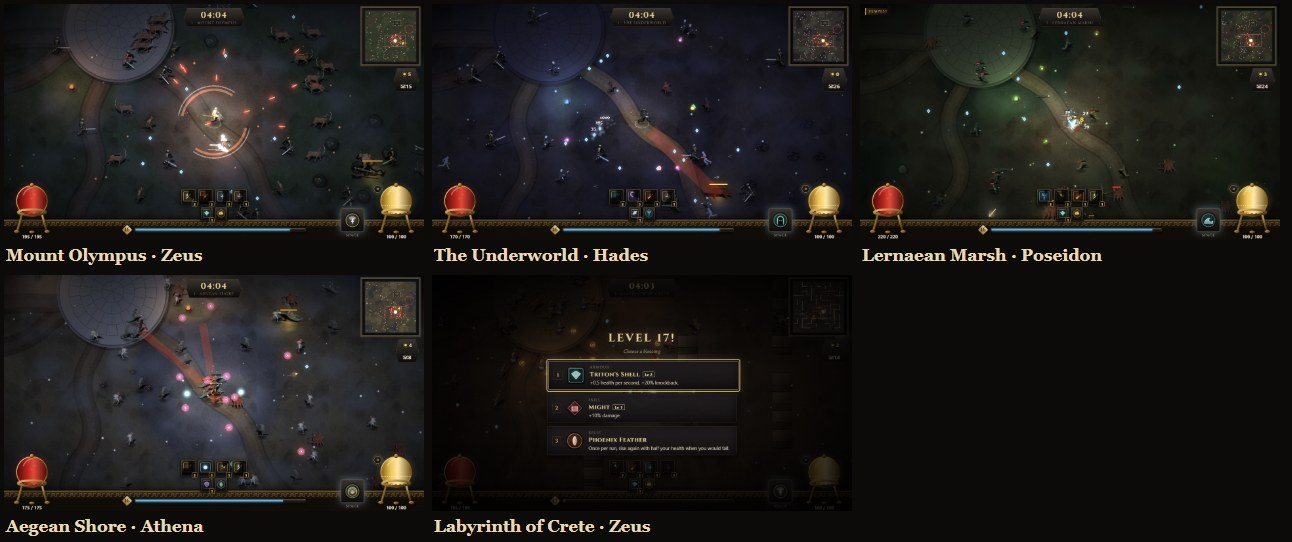
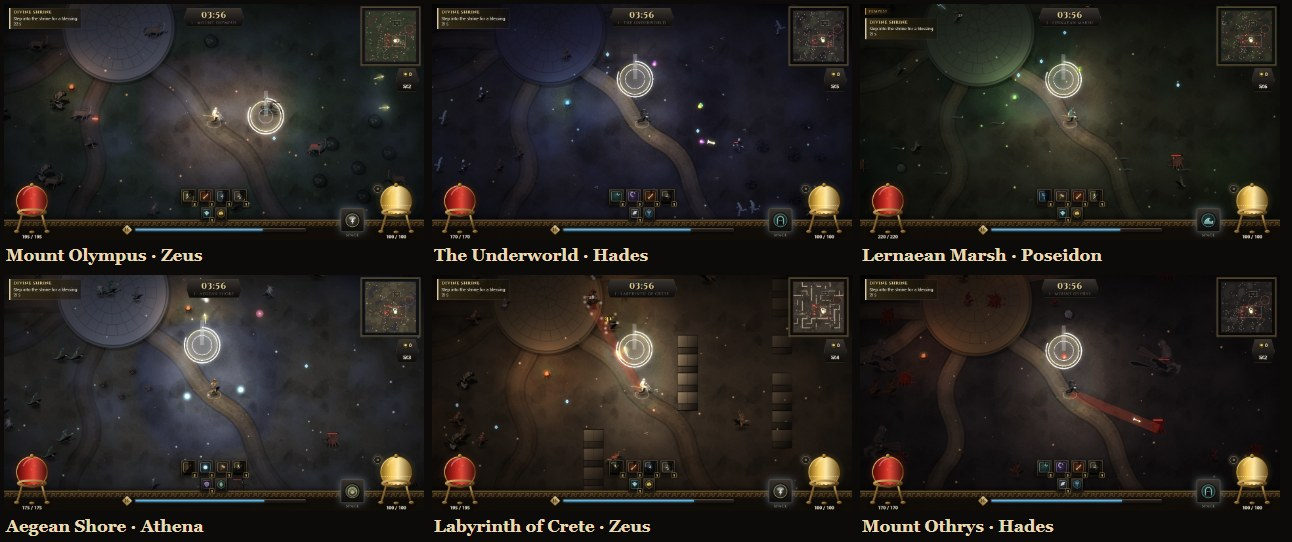
Docs pictures for v0.16.0: Mount Othrys, Kronos devouring, an evolved weapon (#65)
The capture script tours six realms (hero.gif, realms.jpg) and six bosses
(bosses.jpg), takes its realm stills only with no level-up open, and has two
new scenes: kronos (devour.gif, filmed when his Devour winds up, which the
debug snapshot now reports as bossAttack) and evolution (evolution.gif, the
Spear of Olympus in a horde). README and gameplay show them.

diff --git a/client/src/engine/net/driver.ts b/client/src/engine/net/driver.ts
@@ -17,6 +17,8 @@ export interface DriverSnapshot {
   readonly bossAlive: boolean;
   /** Where the living boss is (local runs only), so scripts can wait for it to come into view. */
   readonly boss?: { readonly x: number; readonly y: number };
+  /** The kind of attack the boss is winding up (local runs only), e.g. 'devour'. */
+  readonly bossAttack?: string;
   /** Where the merchant stands while it is in the realm. */
   readonly merchant?: { readonly x: number; readonly y: number };
   readonly players: number;
@@ -247,6 +249,7 @@ export class LocalDriver implements RunDriver {
       enemies: state.enemies.length,
       bossAlive: !!state.boss && !state.boss.dead,
       boss: state.boss && !state.boss.dead ? { x: state.boss.x, y: state.boss.y } : undefined,
+      bossAttack: state.boss && !state.boss.dead ? state.boss.boss?.current?.type : undefined,
       merchant: state.merchant ? { x: state.merchant.x, y: state.merchant.y } : undefined,
       players: state.players.filter((pl) => !pl.left).length,
       party: state.players.map((pl) => ({ x: pl.x, y: pl.y, alive: pl.alive })),

diff --git a/client/src/engine/session.ts b/client/src/engine/session.ts
@@ -133,6 +133,8 @@ export interface DebugSnapshot {
   readonly bossAlive: boolean;
   /** Where the living boss is (solo runs and a room's host), for scripts that wait for it to come into view. */
   readonly boss?: { readonly x: number; readonly y: number };
+  /** The kind of attack the boss is winding up, e.g. 'devour' (scripts that capture an attack). */
+  readonly bossAttack?: string;
   /** The battle music's tier, 0 (Calm) to 4 (Titan) (spec: music). */
   readonly musicTier?: number;
   /** The canvas and the camera drawing it, in CSS pixels: they must match (spec: phone-play / the phone screen). */

diff --git a/README.md b/README.md
@@ -4,7 +4,7 @@
 
 An original mythological horde-survival roguelite that runs entirely in the browser. Choose a god, survive ever-larger hordes in procedurally generated realms of Greek myth, combine weapons, armour, relics and skills into synergies and fusions, defeat each realm's boss and pass its gate into the next, harder realm. The run goes on until every god has fallen; then spend your rewards on lasting upgrades and go again. Play alone, with up to three friends on one screen, or in a co-op room joined by code.
 
-<img src="docs/images/hero.gif" width="100%" alt="A run in every realm: Mount Olympus, the Underworld, the Lernaean Marsh, the Aegean Shore and the Labyrinth of Crete">
+<img src="docs/images/hero.gif" width="100%" alt="A run in every realm: Mount Olympus, the Underworld, the Lernaean Marsh, the Aegean Shore, the Labyrinth of Crete and Mount Othrys">
 
 - **Four gods:** Zeus, Hades, Poseidon and Athena, each with a starting weapon, a divine ability, a passive and an arsenal of their own (Thunderbolt is Zeus's alone, the Soul Scythe Hades's).
 - **Daily Trial:** one run a day, the same for everyone: a god, a realm, a seed and a twist such as Swift Foes or Glass God. Your best today is kept, and any run can be shared as a picture and a challenge link that starts the same run for a friend. Co-op rooms have **Invite** links that open the room ready to join.
@@ -35,8 +35,8 @@ An original mythological horde-survival roguelite that runs entirely in the brow
 | ![Two players on one keyboard walk apart and the camera zooms out](docs/images/together.gif) | ![God selection with a second player and two bot allies](docs/images/gods.jpg) | ![Four players at one screen, a plaque in every corner](docs/images/together-four.jpg) |
 | **On a phone, sideways** | **Menus upright** | **Call of Hermes** |
 | ![A run on a phone: the stick under the left thumb, Power, Dash and Sprint on the right, the orbs between](docs/images/phone.jpg) | ![God selection on a phone held upright](docs/images/phone-gods.jpg) | ![Call of Hermes: every experience gem in the realm streams to the god](docs/images/hermes.gif) |
-| **The build panel** | | |
-| ![The build panel: the whole build and the tree of fusions, each requirement ticked or with the level still needed](docs/images/build-panel.jpg) | | |
+| **The build panel** | **Kronos devours** | **An evolved weapon** |
+| ![The build panel: the whole build and the tree of fusions, each requirement ticked or with the level still needed](docs/images/build-panel.jpg) | ![Kronos on Mount Othrys: the wide pull ring and his maw](docs/images/devour.gif) | ![The Spear of Olympus bursting in thunder in a horde](docs/images/evolution.gif) |
 
 **Play it:** [olympus.138-2-144-201.sslip.io](https://olympus.138-2-144-201.sslip.io/), or download the game from [Releases](https://github.com/David-Letonja-CTG/Olympus-Unbound/releases)
 

diff --git a/docs/gameplay.md b/docs/gameplay.md
@@ -2,7 +2,7 @@
 
 The game as the player experiences it. Numbers live in `client/src/content/` and may change with balancing; this page describes the shape.
 
-<img src="images/hero.gif" width="100%" alt="A run in every realm: Mount Olympus, the Underworld, the Lernaean Marsh, the Aegean Shore and the Labyrinth of Crete">
+<img src="images/hero.gif" width="100%" alt="A run in every realm: Mount Olympus, the Underworld, the Lernaean Marsh, the Aegean Shore, the Labyrinth of Crete and Mount Othrys">
 
 ## The loop
 
@@ -284,6 +284,8 @@ Lord of the Titans, Devourer of His Children: a towering king in dark gold armou
 - **Below 60% health:** "Kronos remembers his hunger!" He **devours**: a wide ring opens round him and drags every god inside toward him for a moment, then his jaws snap shut on the smaller circle at his feet. Run or dash out of the ring: a dash outruns the pull, and a dash as the jaws close is a perfect dodge. He also calls Titan Soldiers to his side and raises the **walls of Othrys** in rings round himself.
 - **Below 25% health:** "Time itself bends to Kronos!" He rages, moves faster and devours twice in every round of attacks, between sickle cuts, falling stones and a charge.
 
+<img src="images/devour.gif" width="100%" alt="Kronos on Mount Othrys: the wide pull ring and his maw">
+
 ## Building a run
 
 - **Weapons** (up to 6, levels 1–6): Thunder Spear, Divine Bow, Trident, Lightning Orb, War Hammer, Flaming Sword, Thunderbolt, Soul Scythe.
@@ -302,6 +304,8 @@ Lord of the Titans, Devourer of His Children: a towering king in dark gold armou
 | The build panel | Call of Hermes |
 |---|---|
 | ![The build panel: the whole build and the tree of fusions, each requirement ticked or with the level still needed](images/build-panel.jpg) | ![Call of Hermes: every experience gem in the realm streams to the god](images/hermes.gif) |
+| **An evolved weapon** | |
+| ![The Spear of Olympus bursting in thunder in a horde](images/evolution.gif) | |
 
 ## The Wandering Merchant
 
